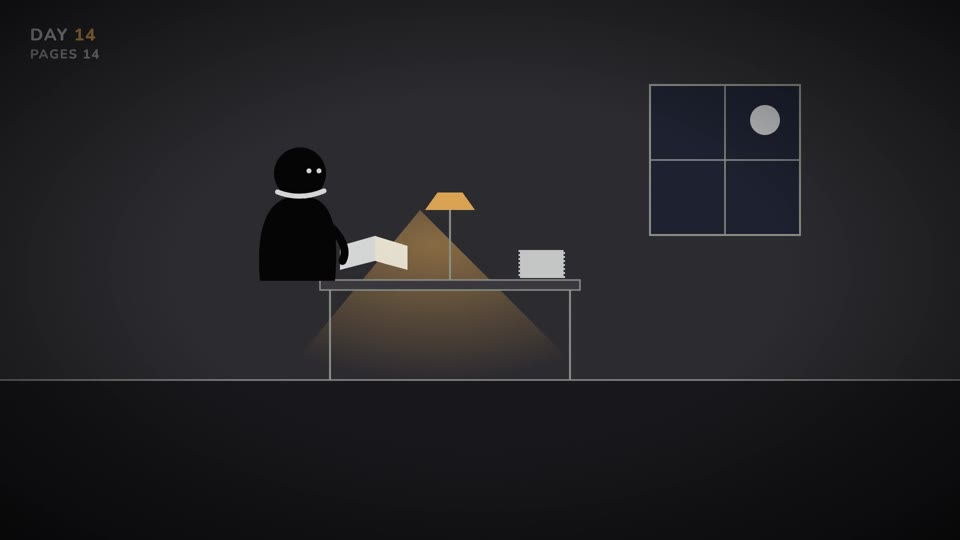
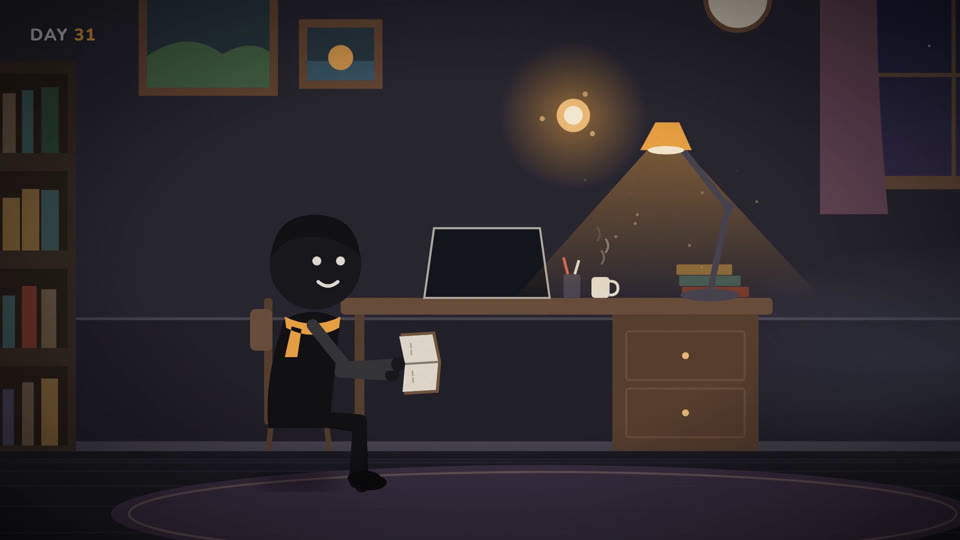
Landing page: Tiny Streak's first film, Pip and the Glim

diff --git a/index.html b/index.html
@@ -42,7 +42,7 @@ footer{margin-top:48px;padding-top:16px;border-top:1px solid var(--line);font-si
 <div class="channels">
 	<div class="channel"><div class="head"><img src="img/logo_minds_sketch.png" alt=""><h3>The Minds Sketch</h3></div><p>Psychology explained in bright, hand-drawn style: why we procrastinate, overthink, and how to change it.</p><a href="https://www.youtube.com/@the-minds-sketch">youtube.com/@the-minds-sketch</a></div>
 	<div class="channel"><div class="head"><img src="img/logo_coinwise.png" alt=""><h3>Coinwise Sketch</h3></div><p>Everyday money as a story at night: inflation, compound interest, and the tricks that make us spend more than we plan.</p><a href="https://www.youtube.com/@Coinwise-Sketch">youtube.com/@Coinwise-Sketch</a></div>
-	<div class="channel"><div class="head"><img src="img/logo_tiny_streak.png" alt=""><h3>Tiny Streak<span class="tag">coming soon</span></h3></div><p>Wordless animated short films about building habits and beating the urges that pull us back: a small character, a day counter, one small step at a time.</p><a href="https://www.youtube.com/@tinystreak">youtube.com/@tinystreak</a></div>
+	<div class="channel"><div class="head"><img src="img/logo_tiny_streak.png" alt=""><h3>Tiny Streak<span class="tag">new</span></h3></div><p>Wordless animated short films about building habits and beating the urges that pull us back: a small character, a day counter, one small step at a time. First film: <a href="https://youtu.be/oStvR1ZWPI0">One Page a Day</a>.</p><a href="https://www.youtube.com/@tinystreak">youtube.com/@tinystreak</a></div>
 </div>
 
 <h2>Meet the characters</h2>
@@ -60,8 +60,12 @@ footer{margin-top:48px;padding-top:16px;border-top:1px solid var(--line);font-si
 	<figure><img src="img/ms_coral.jpg" alt="Coral character, excited with arms up" loading="lazy"><figcaption><b>Coral</b>All feelings, all at once.</figcaption></figure>
 </div>
 
-<p class="note" style="margin-top:20px">Tiny Streak (coming soon): no narration. A small figure, a warm habit light in a dark room, and a day counter that tells the story; voices are gibberish mumbles and sighs, the comedy is physical.</p>
-<img class="sheet" src="img/tiny_streak_preview.jpg" alt="Tiny Streak style test: a small dark figure reading at a desk under a warm lamp at night, with DAY 14 in the corner" loading="lazy" style="max-width:640px">
+<p class="note" style="margin-top:20px">Tiny Streak: no narration. Pip mutters, the day counter tells the story, and a small warm light grows with every day kept.</p>
+<div class="cast">
+	<figure><img src="img/pip.jpg" alt="Pip, a small dark figure with an amber scarf, holding a book up in joy" loading="lazy"><figcaption><b>Pip</b>Means well, gets distracted, mutters a lot. Starts again anyway.</figcaption></figure>
+	<figure><img src="img/glim.jpg" alt="The Glim, a small warm floating light beside a desk lamp" loading="lazy"><figcaption><b>The Glim</b>A tiny warm light: it grows with the streak and dims on a missed day.</figcaption></figure>
+</div>
+<img class="sheet" src="img/tiny_streak_preview.jpg" alt="Pip reading at his desk at night under the lamp, the Glim glowing, DAY 31 in the corner" loading="lazy" style="max-width:640px">
 
 <h2>How they feel</h2>
 <p>Characters act their feelings instead of just changing faces: a blink before the change, a reaction that settles, and the body joins in: a jolt when shocked, a slump when sad, a tremble when angry, a hop when excited.</p>
